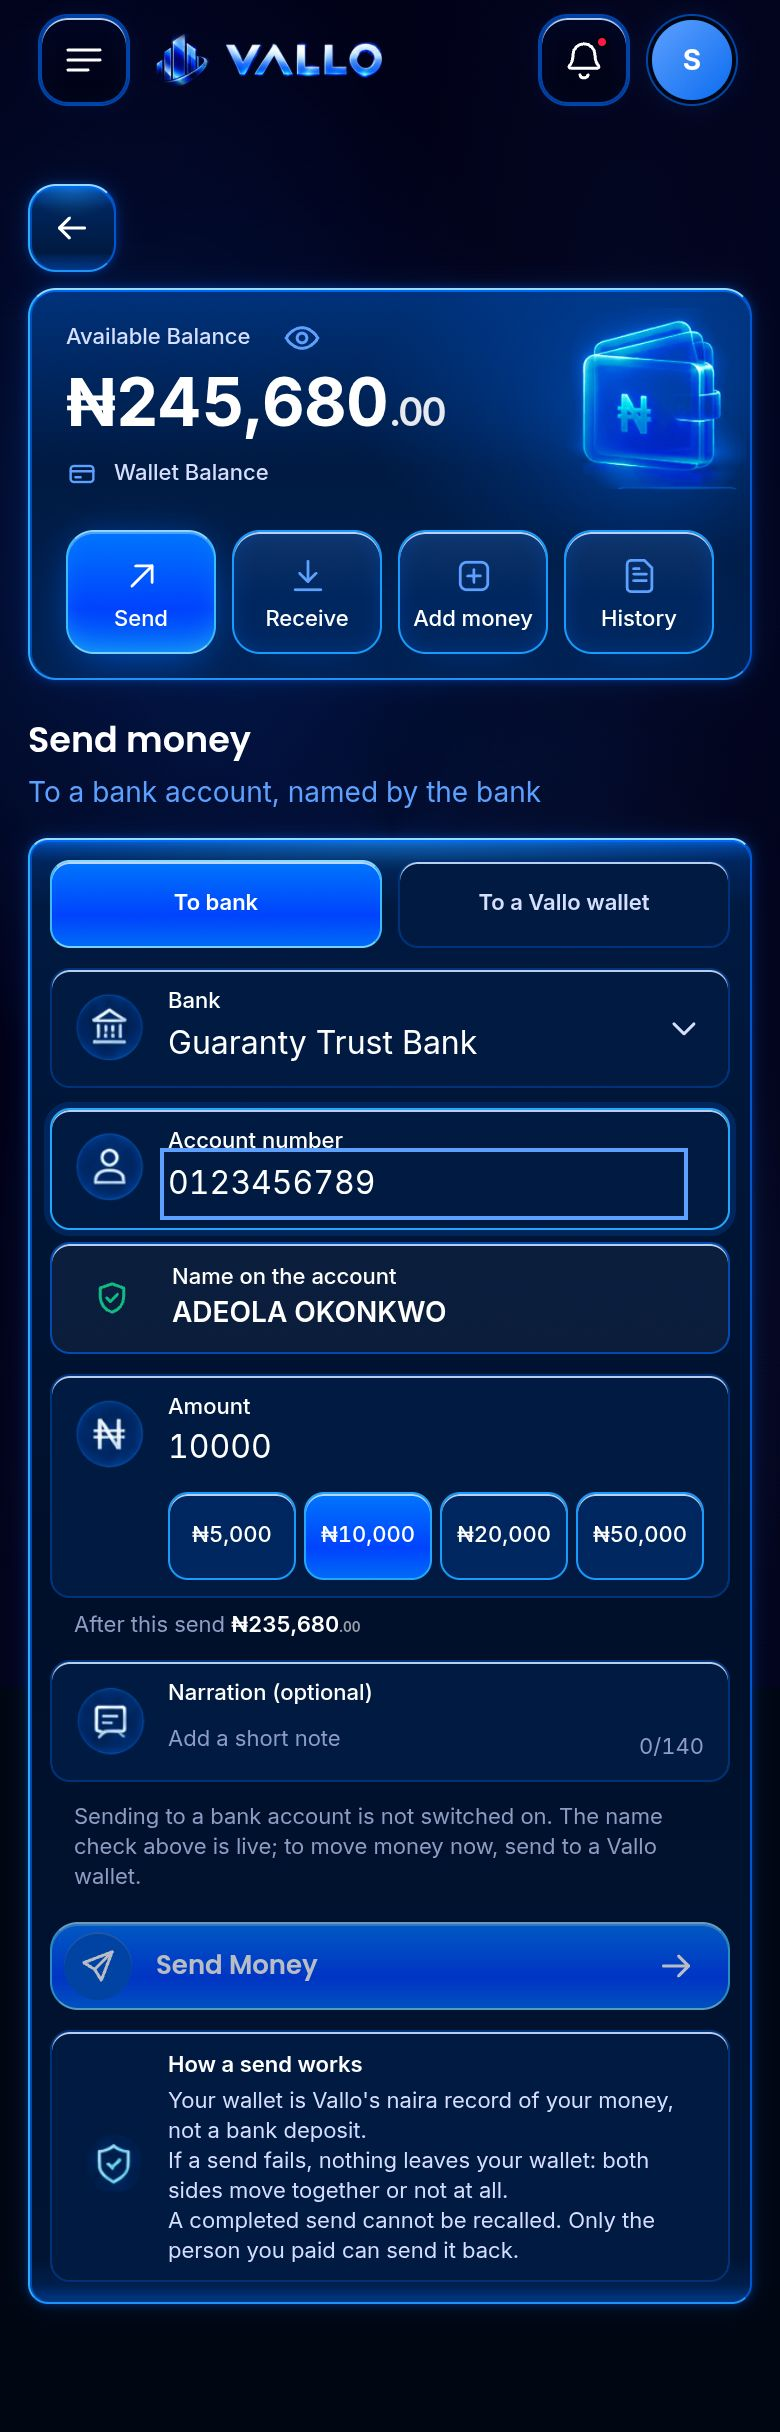
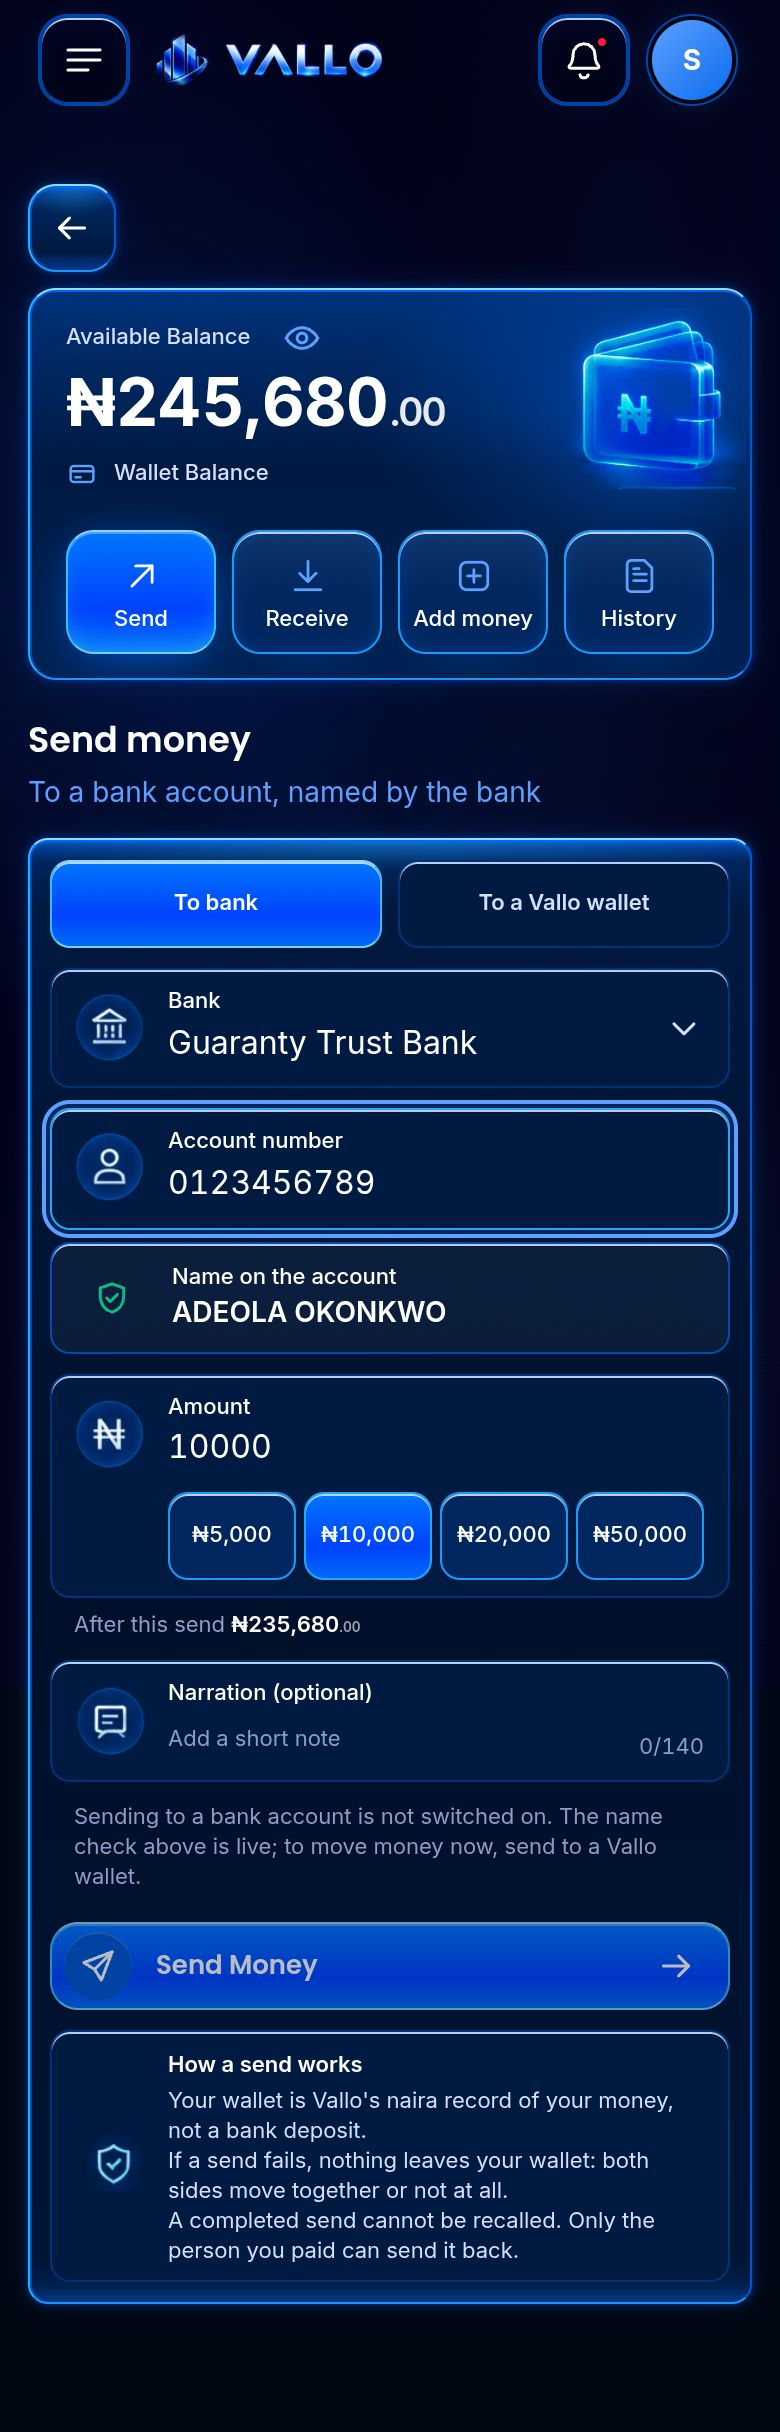
Send rows carry one focus ring: the row's outline in the focus token, the field's own ring off inside it
Claude-Session: https://claude.ai/code/session_019wbtqoDGNqUbtnVxF5CU77

diff --git a/apps/web/src/app/css/wallet.css b/apps/web/src/app/css/wallet.css
@@ -747,8 +747,16 @@
     background: var(--nf-wallet-glass-mid);
     box-shadow: var(--nf-rim-lit);
   }
+  /*
+   * ONE FOCUS INDICATOR PER ROW. The row carries it: its lit glow, and a
+   * 2px outline in the focus token (`--nf-brand-quiet`, #5C9FFF, about 6.6:1
+   * against the panel's rgb(0 12 43), well over 3:1). The field inside the
+   * row gives up its own ring, below, so keyboard focus is obvious and single.
+   */
   .nf-send-row:focus-within {
     border-color: var(--nf-wallet-rim-foot);
+    outline: var(--nf-focus-ring-width) solid var(--nf-focus-ring);
+    outline-offset: var(--nf-focus-ring-offset);
     box-shadow:
       var(--nf-rim-lit),
       0 0 0 3px var(--nf-glow-2);
@@ -1494,4 +1502,17 @@
     margin-top: 0.125rem;
     line-height: 1.35;
   }
+}
+
+/*
+  OUTSIDE THE LAYER, ON PURPOSE. The platform's keyboard ring
+  (`base.css`, `:where(input, select, ...):focus-visible`) is unlayered, and an
+  unlayered rule beats every rule inside `@layer components` whatever its
+  specificity. So the one exception this surface needs is stated at the same
+  level: a field inside a send row draws no ring of its own, because the row
+  draws it (`.nf-send-row:focus-within` above). Scoped to the row, so no other
+  field anywhere loses its ring.
+*/
+.nf-send-row :where(.nf-send-row__input):focus-visible {
+  outline: none;
 }
